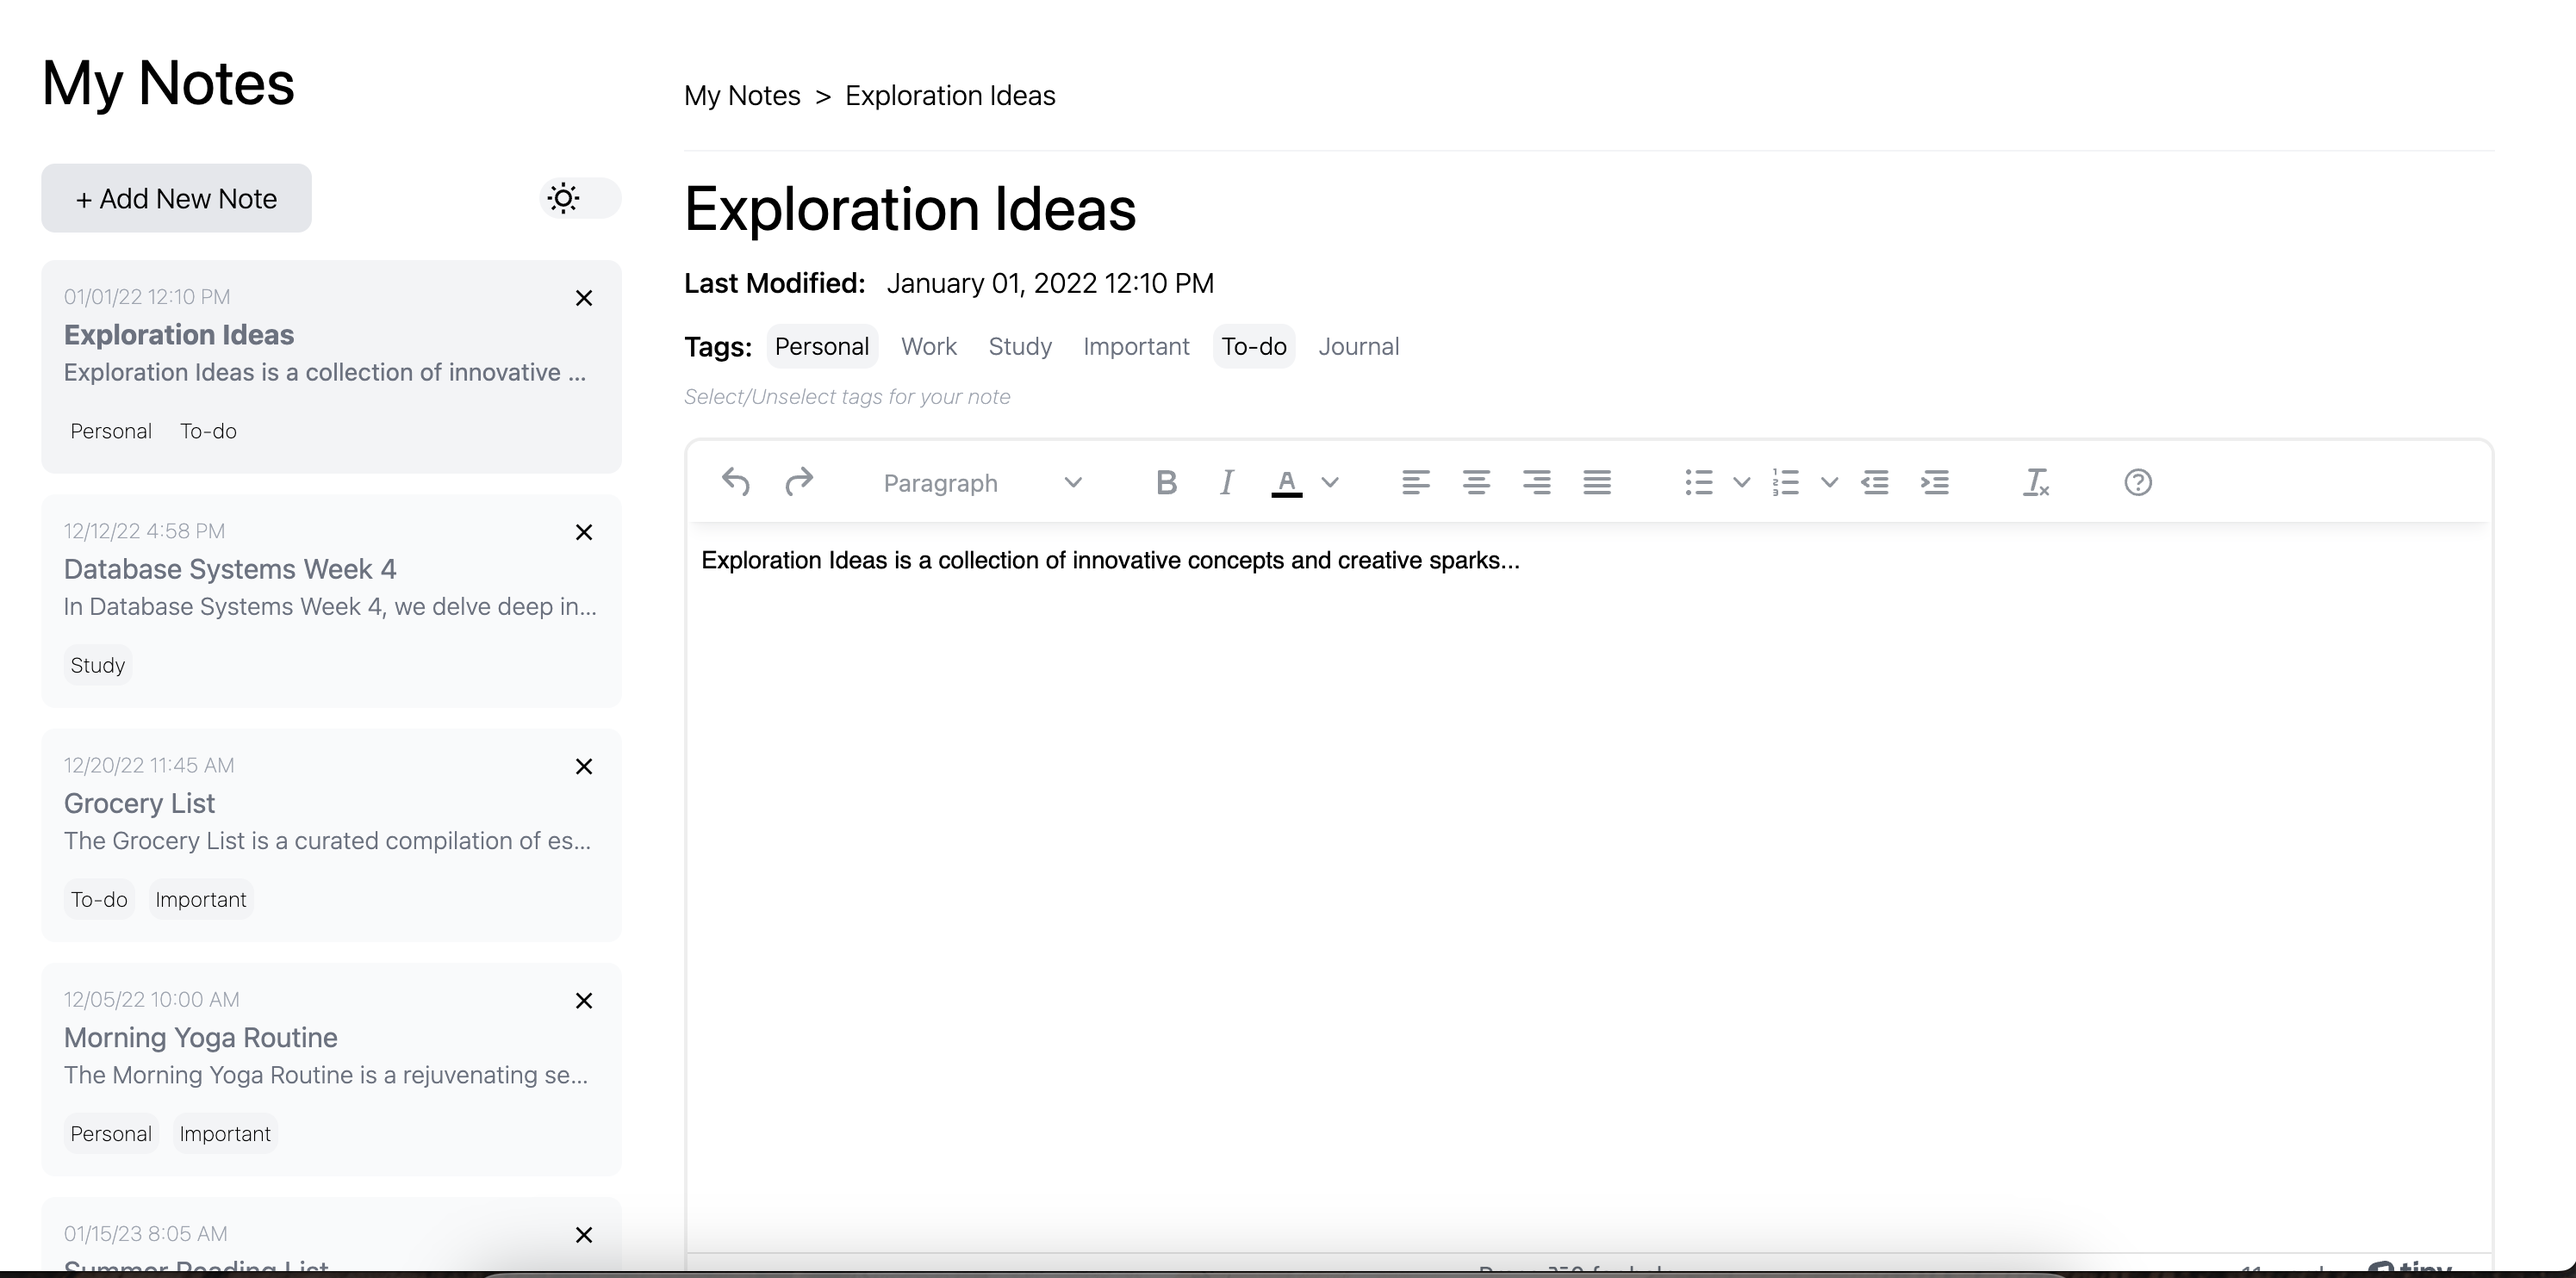
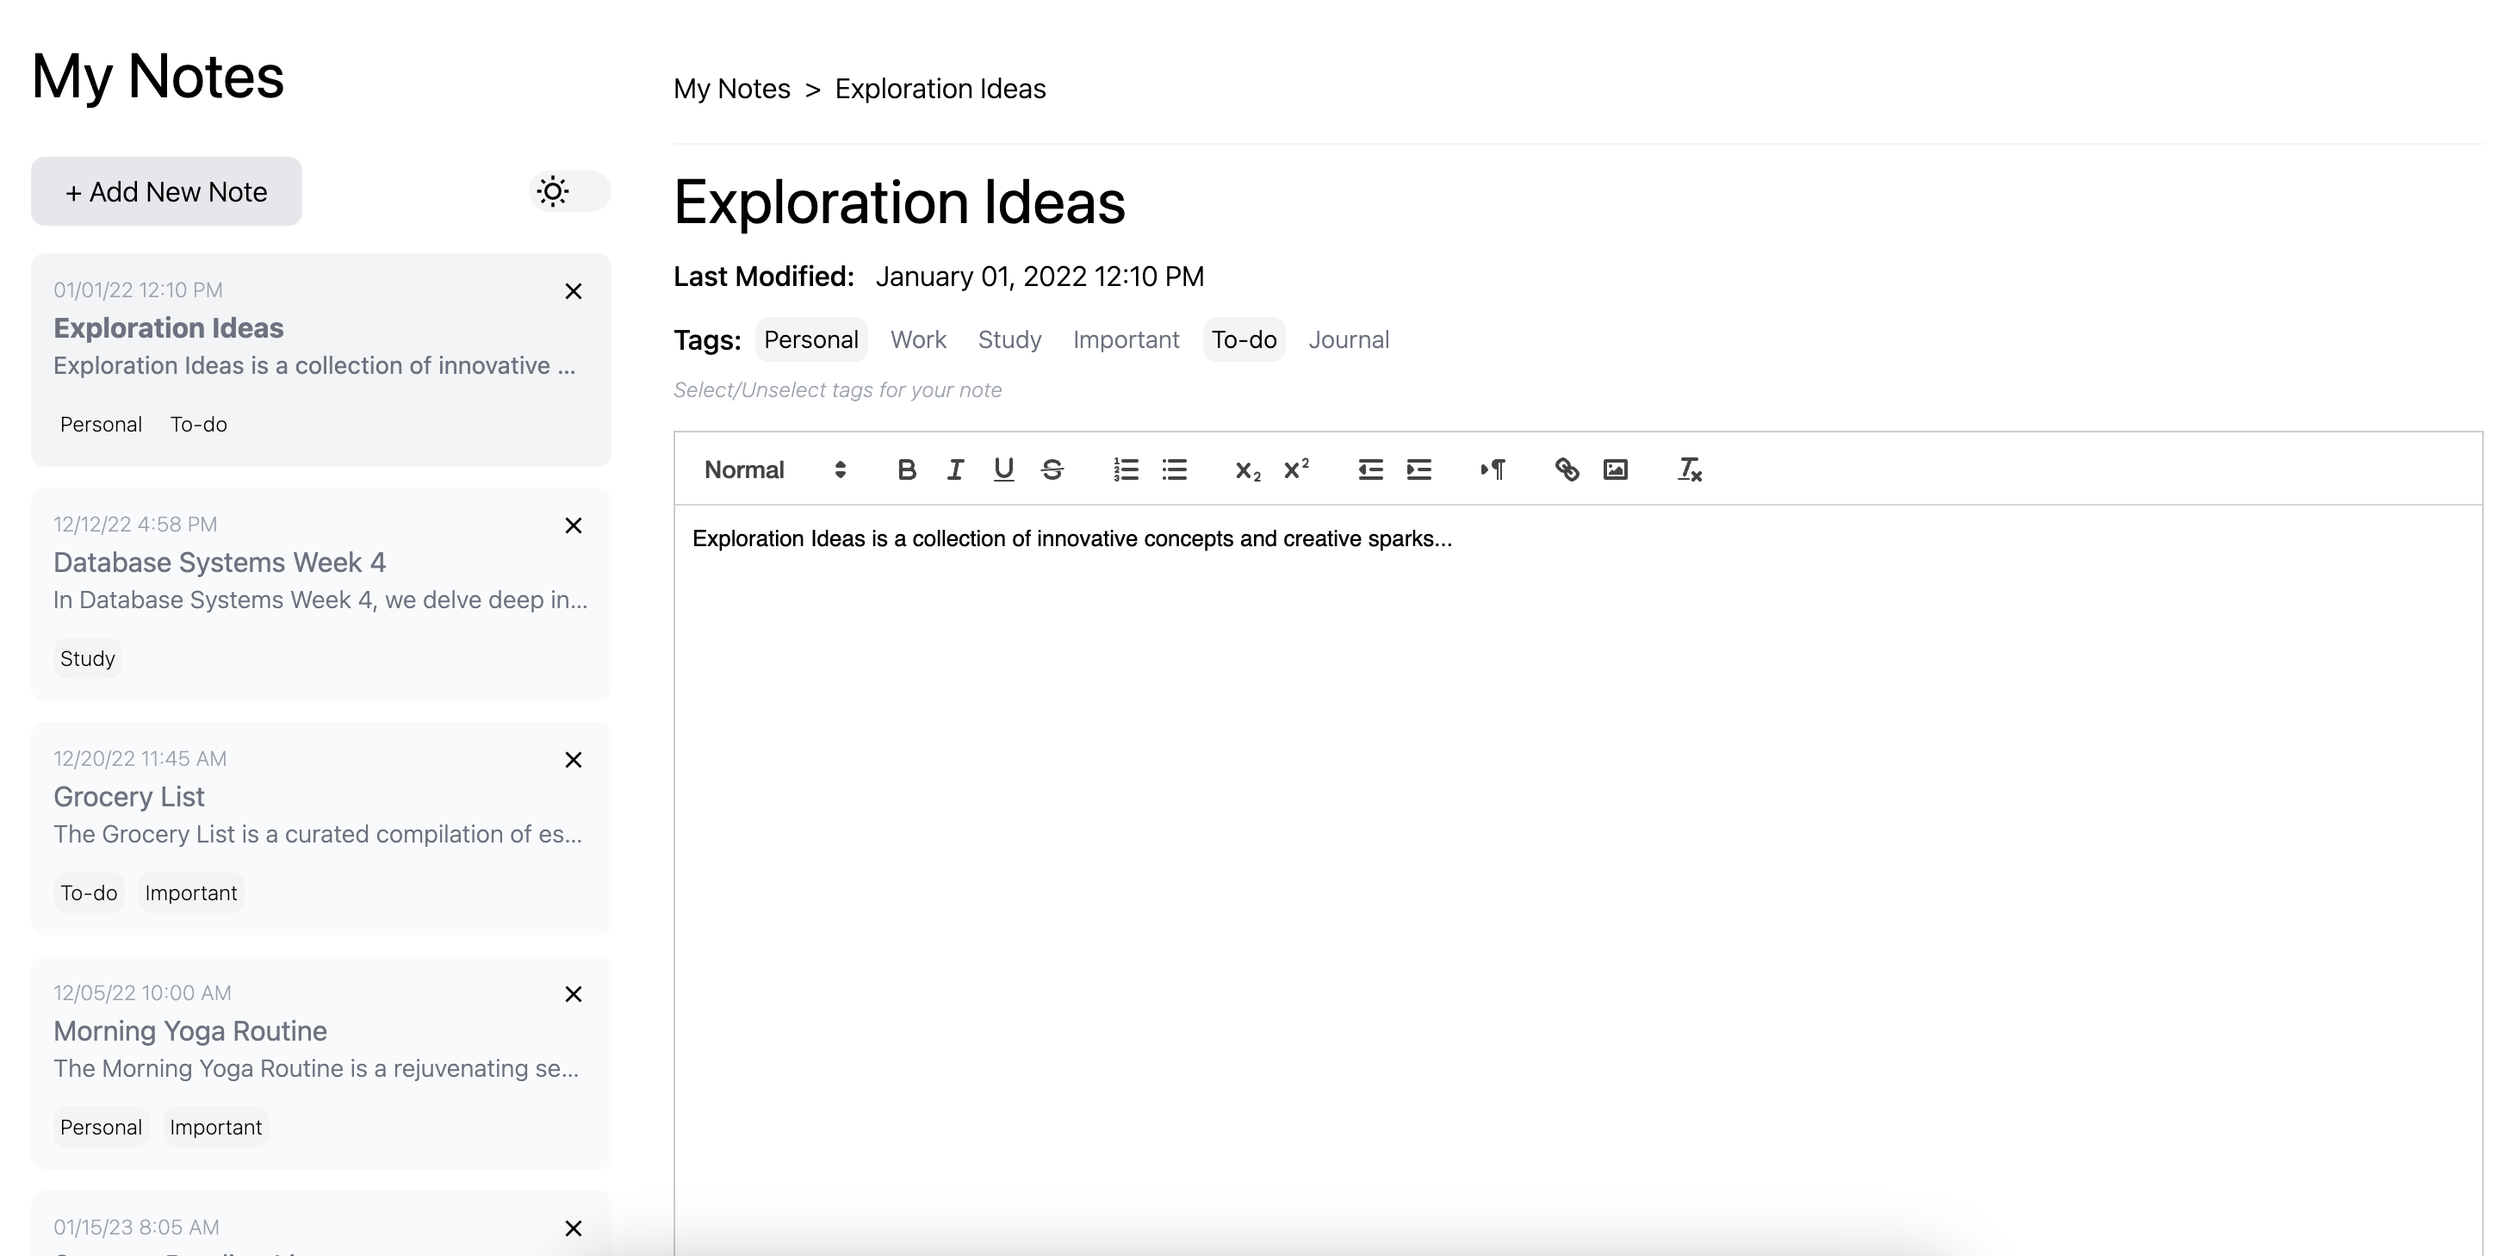
update notes app

diff --git a/src/utils/projects.ts b/src/utils/projects.ts
@@ -39,7 +39,7 @@ export default [
   {
     title: "Notes App",
     description: `A sleek and dynamic frontend notes application that harnesses
-        @tinymce/tinymce-react for rich text editing and Tailwind CSS for an
+        ReactQuill for rich text editing and Tailwind CSS for an
         intuitive, responsive design.`,
     tags: [
       "React",
